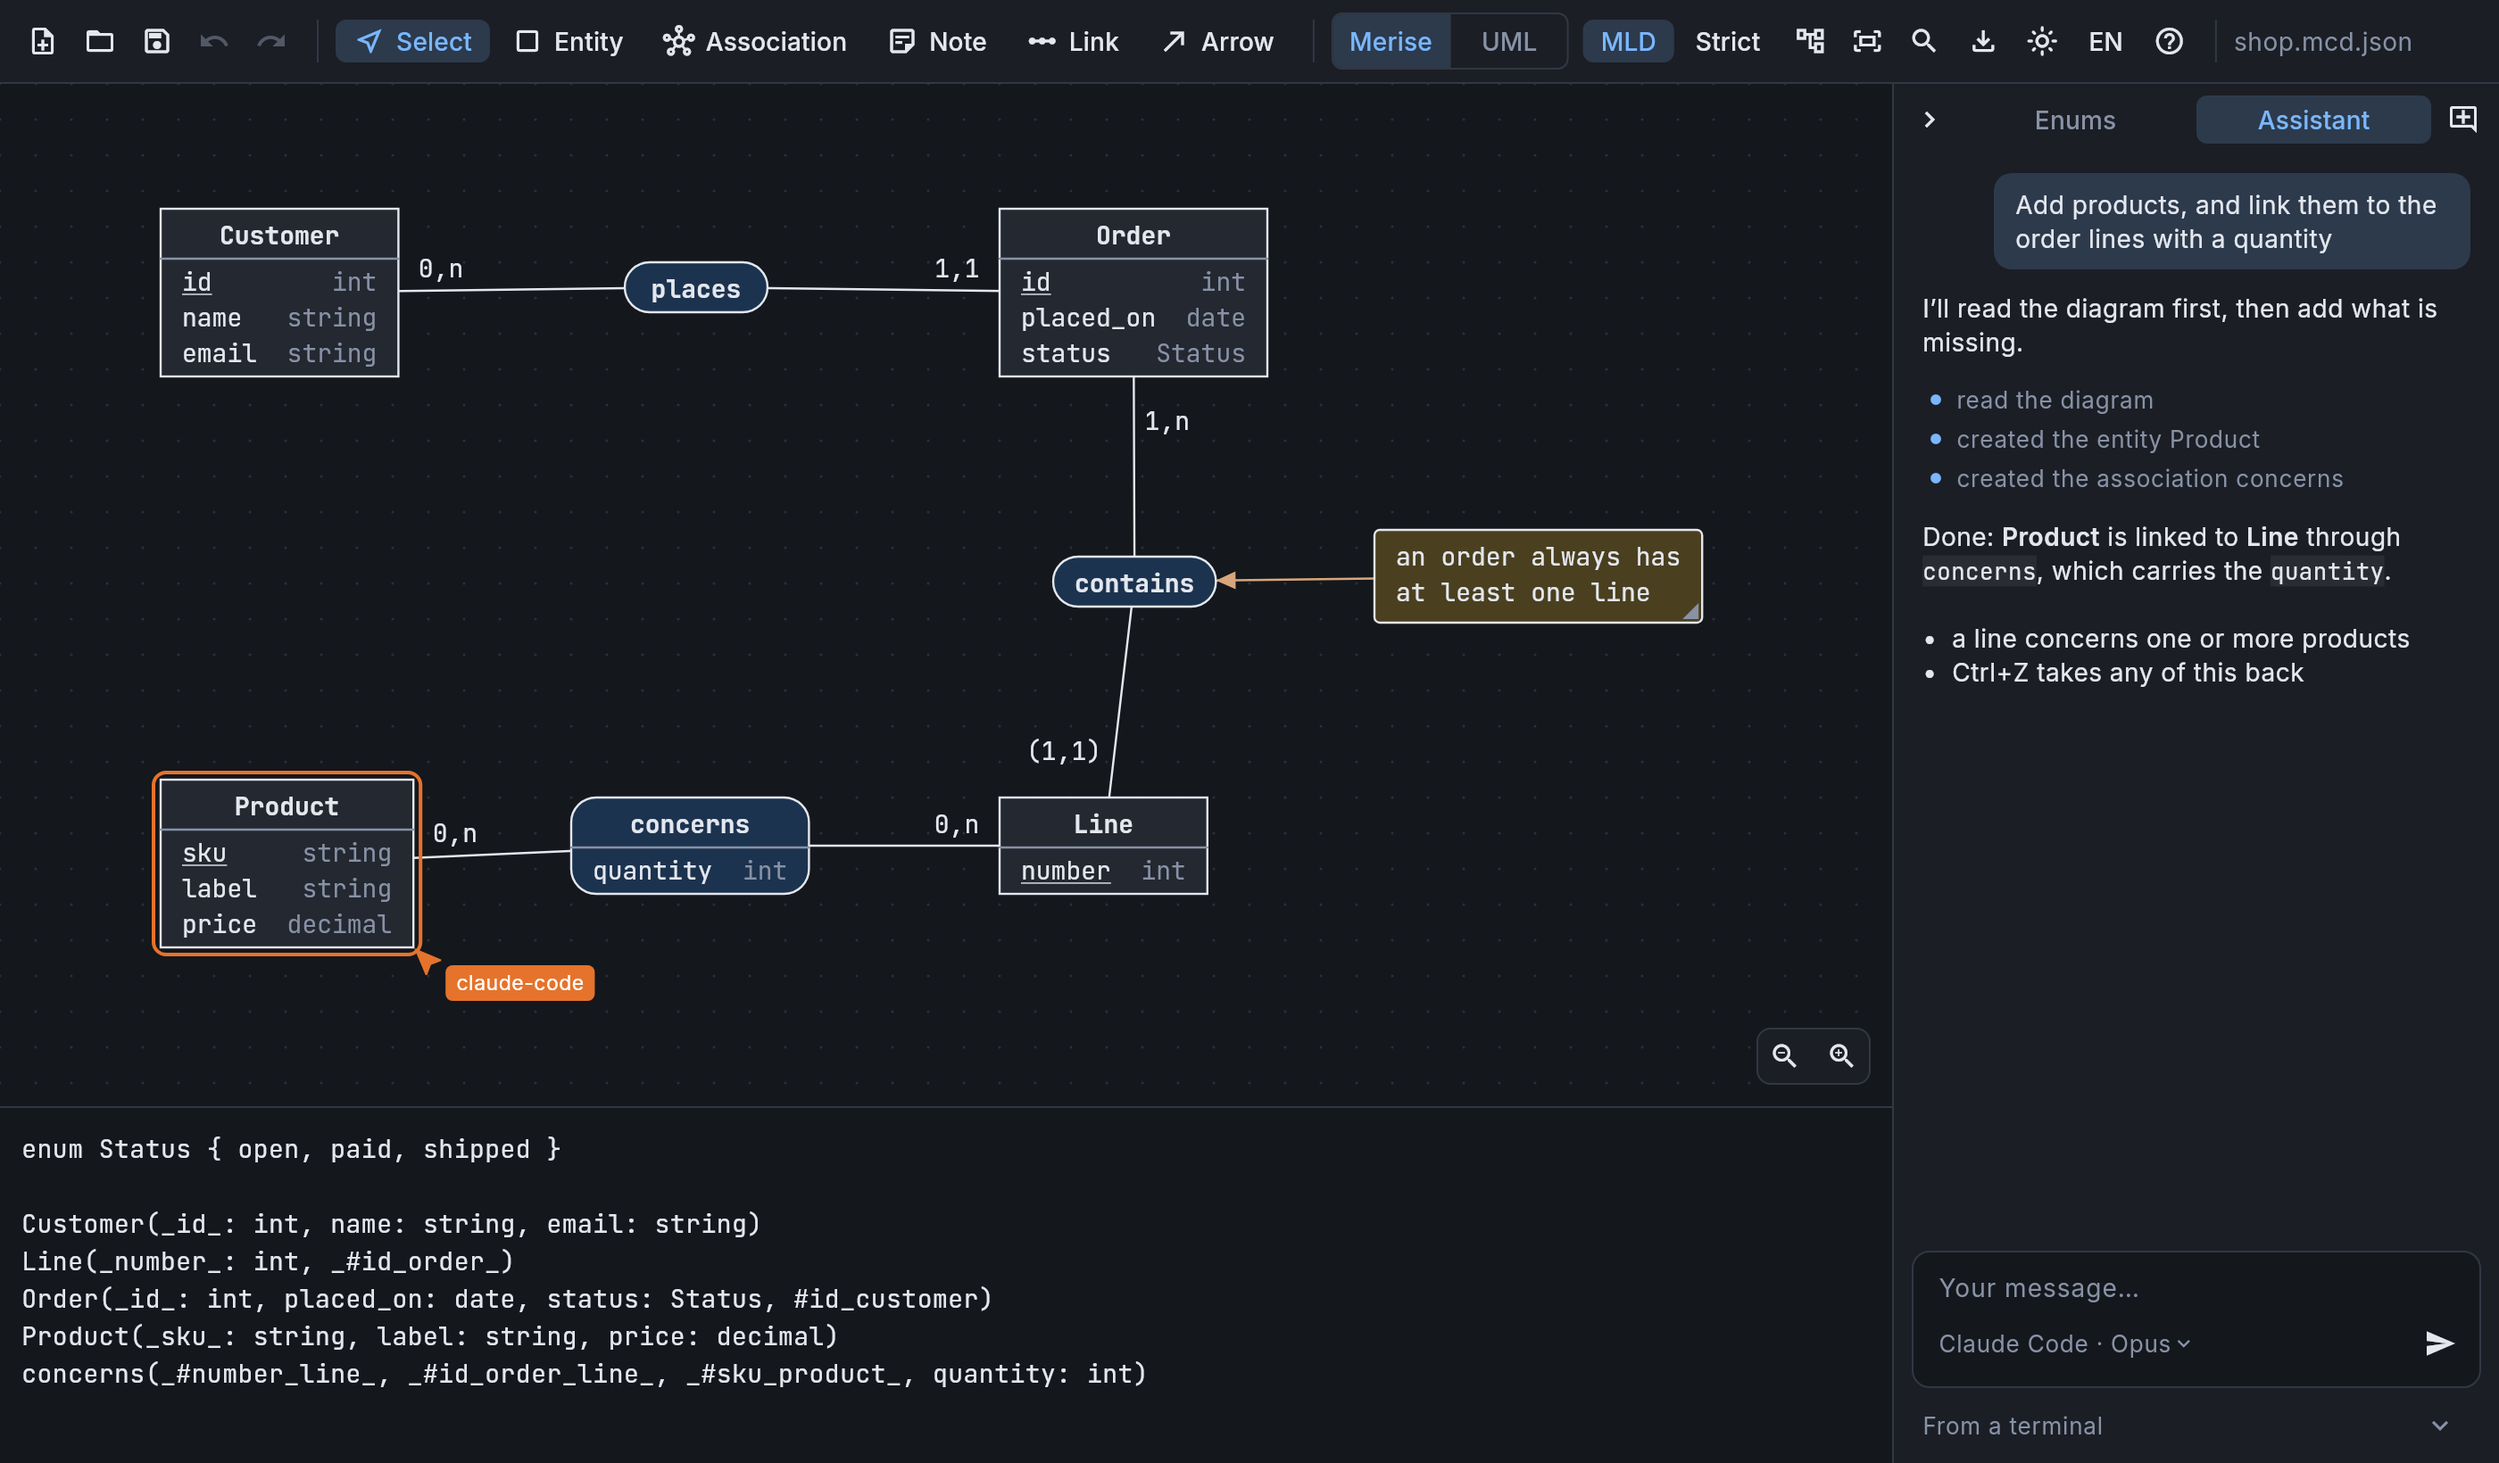
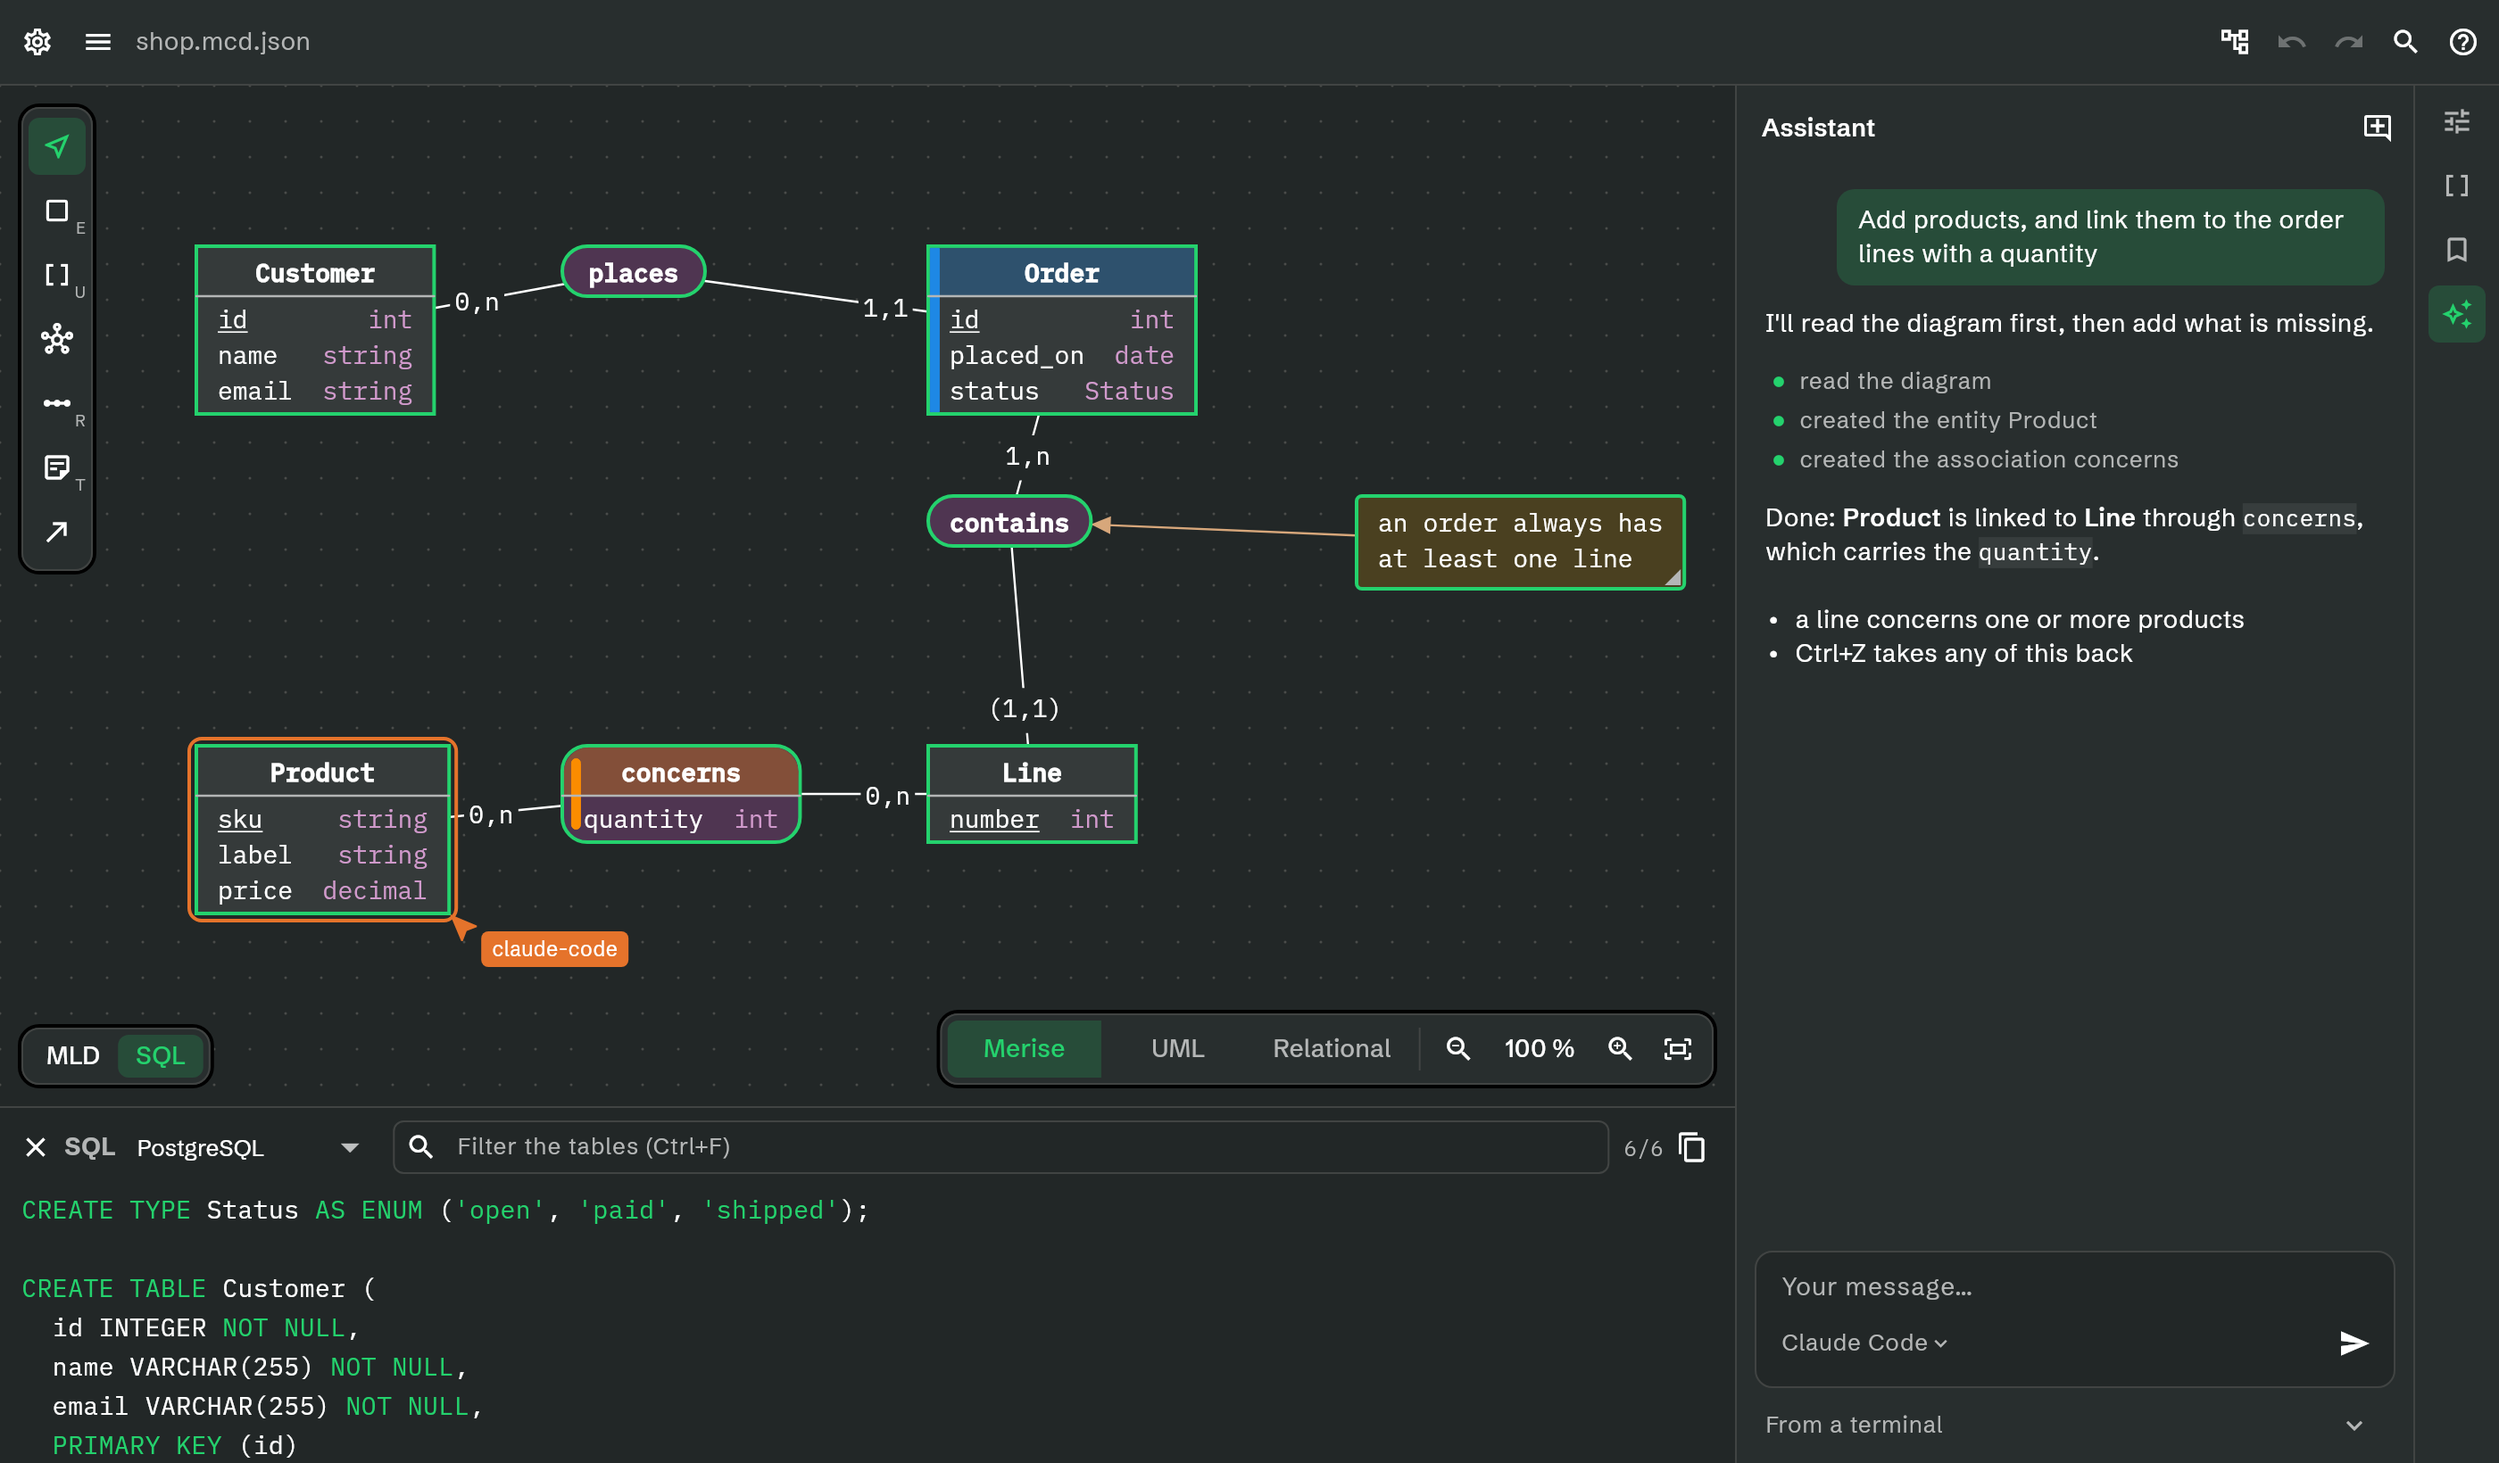
README: current screenshot and feature list

diff --git a/README.md b/README.md
@@ -12,7 +12,7 @@ An alternative to Looping, for Linux and Windows.
 
 <picture>
   <source media="(prefers-color-scheme: dark)" srcset="screenshot-dark.png">
-  <img src="screenshot-light.png" alt="A Customer – Order – Line – Product diagram in macgram, its relational model generated underneath, and the assistant adding an entity in the side panel" width="860">
+  <img src="screenshot-light.png" alt="A Customer – Order – Line – Product diagram in macgram, its PostgreSQL script generated underneath, and the assistant adding an entity in the side panel" width="860">
 </picture>
 
 </div>
@@ -72,14 +72,16 @@ The app looks for a new version when it starts and offers to install it. Nothing
 
 ## What macgram does
 
-- **The conceptual model**: entities, binary or n-ary associations, cardinalities, weak entities, enums, notes and annotation arrows, in Merise or UML notation.
-- **The relational model, live**: tables, primary and foreign keys are generated under the diagram as you draw.
+- **The conceptual model**: entities, binary, n-ary, reflexive or standalone associations, cardinalities, weak entities, enums, notes and annotation arrows.
+- **Three views of one diagram**: Merise, UML and relational, sharing the same box positions.
+- **The relational model and SQL, live**: the MLD under the diagram, or the `CREATE TABLE` script for PostgreSQL, MySQL / MariaDB, SQLite or SQL Server, or a Prisma schema. Advanced settings (table and column names, defaults, `CHECK`, indexes, `ON DELETE`) go straight into the script.
 - **Files made for git**: JSON with one element per line and random ids, so diffs stay readable and branches merge without collisions.
 - **Automatic layout**: one button moves the boxes around to keep links from crossing.
+- **Colour marks**: mark entities and associations with a colour, and find them again in a side tab.
+- **Cloud documents** (with a macgram account): put a diagram in the cloud, share it with friends and edit it together live, with everyone's pointer on the diagram.
 - **An AI assistant**: talk to Claude Code or Codex in the side panel and watch it draw, one undoable step at a time. It runs the CLI already installed and signed in on your machine; macgram holds no key. A local MCP server lets an AI started from your terminal join in too.
-- **Looping import**: `.loo` files open directly.
-- **Export** to PNG and SVG, in the light or dark theme.
-- **And the rest**: undo / redo, copy and paste, search by name, strict mode, interface in English or French.
+- **Import and export**: `.loo` files from Looping open directly; export to PNG, SVG, SQL or Prisma.
+- **And the rest**: undo / redo, copy and paste, search by name, strict mode, light and dark themes, interface in English or French, release notes after each update.
 
 ## Something wrong?
 
